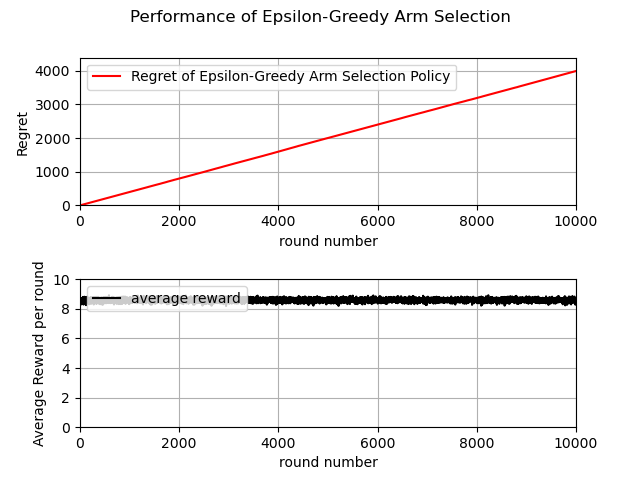
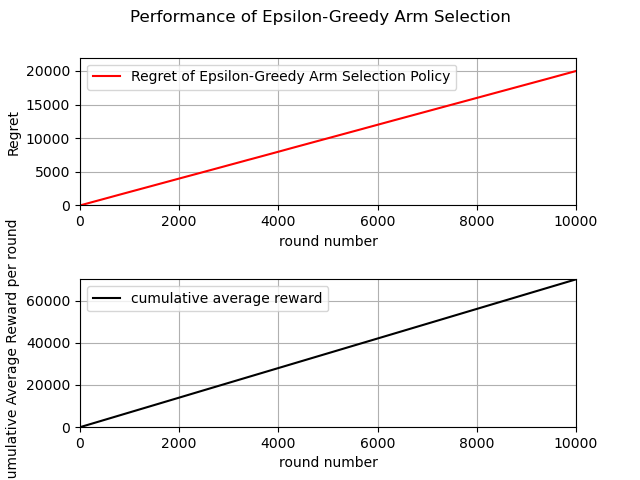
up

diff --git a/Ass2/MAB_adaptive_greedy_arm_selection.py b/Ass2/MAB_adaptive_greedy_arm_selection.py
@@ -1,60 +1,42 @@
-"""
-CMSC5728 Programming Assignment #2
-Author: HUANG, Hao Yu
-Date:   10/28/2024
-"""
 import random
 import numpy as np
-import math
 import matplotlib.pyplot as plt
 
-
 def cal_uni_expectation(upper, lower):
-    """
-    Target: calculate the expectation of the input uniform distribution
-    Return: return the expectation
-    """
     return (upper + lower) / 2
 
 def arm_selection_epsilon_greedy_policy(num_of_arms, epsilon, pull_counts, rewards):
-    """
-    Target: Conduct the epsilon-greedy selection algorithm to simulate the multi-arm bandit
-    Return: Return selected arm with the current algorithm
-    """
     if random.random() < epsilon:
-        select_arm = np.random.randint(num_of_arms, size=1)[0]  # Explore: randomly select an arm
+        select_arm = np.random.randint(num_of_arms)
     else:
-        select_arm = np.argmax(rewards / (pull_counts + 1e-10))  # Exploit: select the arm with the highest average reward
+        select_arm = np.argmax(rewards / (pull_counts + 1e-10))
     pull_counts[select_arm] += 1
     return select_arm
 
-if __name__ == "__main__":
-    print("=======================Epsilon-Greedy algorithm=======================")
-    # parameters
-    num_of_arms = 10                    # number of arms
-    winning_parameters = np.array([tuple([0,2]), tuple([1,3]), tuple([2,4]), tuple([3,9]), tuple([4,6]), tuple([8,10]), tuple([3,5]), tuple([4,10]), tuple([5,7]), tuple([6,8])])
-    optimal_arm = 5					    # index for the optimal arm
-    epsilon = 0.5                       # exploration rate
-    T = 10000					        # number of rounds to simulate
-    total_iteration = 200               # number of iterations to the MAB simulation
+def epsilon(t):
+    # Define epsilon as a function of time t
+    return 1.0 / (1.0 + t)
 
-    # Initialize arrays to store the number of pulls and rewards for each arm
+
+if __name__ == "__main__":
+    print(f"=======================Adaptive Epsilon-Greedy algorithm=======================")
+    num_of_arms = 10
+    winning_parameters = np.array([tuple([0,2]), tuple([1,3]), tuple([2,4]), tuple([3,9]), tuple([4,6]), tuple([8,10]), tuple([3,5]), tuple([4,10]), tuple([5,7]), tuple([6,8])])
+    optimal_arm = 5
+    T = 10000
+    total_iteration = 200
+
     pull_counts = np.zeros(num_of_arms, dtype=int)
     rewards = np.zeros(num_of_arms, dtype=float)
+    reward_round_iteration = np.zeros(T, dtype=float)
 
-    # reward in each round average by # of iteration
-    reward_round_iteration = np.zeros((T), dtype=float)
-
-    # Go through T rounds, each round we need to select an arm
     for iteration_count in range(total_iteration):
         for round in range(T):
-            # select the best arm with a specific algorithm
-            select_arm = arm_selection_epsilon_greedy_policy(num_of_arms, epsilon, pull_counts, rewards)
-            # generate reward for the selected arm
+            select_arm = arm_selection_epsilon_greedy_policy(num_of_arms, epsilon(round), pull_counts, rewards)
             reward = cal_uni_expectation(winning_parameters[select_arm][1], winning_parameters[select_arm][0])
             rewards[select_arm] += reward
             reward_round_iteration[round] += reward
-
+    
     # compute average reward for each round
     average_reward_in_each_round = np.zeros(T, dtype=float)
     for round in range(T):
@@ -77,11 +59,11 @@ if __name__ == "__main__":
           f'The average cumulative reward is: {cumulative_reward}\n',
           f'The average regret is: {(cumulative_optimal_reward - cumulative_reward)}'
           )
-    
+
     fig, axs = plt.subplots(2)   # get two figures, top is regret, bottom is average reward in each round
-    fig.suptitle('Performance of Epsilon-Greedy Arm Selection')
+    fig.suptitle('Performance of Adaptive Epsilon-Greedy Arm Selection')
     fig.subplots_adjust(hspace=0.5)
-    axs[0].plot(X, Y, color='red', label='Regret of Epsilon-Greedy Arm Selection Policy')
+    axs[0].plot(X, Y, color='red', label='Regret of Adaptive Epsilon-Greedy Arm Selection Policy')
     axs[0].set(xlabel='round number', ylabel='Regret')
     axs[0].grid(True)
     axs[0].legend(loc='upper left')
@@ -93,5 +75,5 @@ if __name__ == "__main__":
     axs[1].legend(loc='upper left')
     axs[1].set_xlim(0, T)
     axs[1].set_ylim(0, max(Y2))
-    plt.savefig("epsilon_greedy.png")
+    plt.savefig("adaptive_epsilon_greedy.png")
     plt.show()

diff --git a/Ass2/MAB_ETE_arm_selection.py b/Ass2/MAB_ETE_arm_selection.py
@@ -82,10 +82,12 @@ if __name__ == "__main__":
     cumulative_reward = 0.0
     X = np.zeros(T, dtype=int)
     Y = np.zeros(T, dtype=float)
+    Y2 = np.zeros(T, dtype=float)
     for round in range(T):
         X[round] = round
         cumulative_optimal_reward += cal_uni_expectation(winning_parameters[5][1], winning_parameters[5][0])  # Assuming the optimal arm is the 6th arm
         cumulative_reward += average_reward_in_each_round[round]
+        Y2[round] = cumulative_reward
         Y[round] = (cumulative_optimal_reward - cumulative_reward)
 
     print(f'After {T} rounds:\n',
@@ -102,11 +104,11 @@ if __name__ == "__main__":
     axs[0].legend(loc='upper left')
     axs[0].set_xlim(0,T)
     axs[0].set_ylim(0,1.1*(cumulative_optimal_reward - cumulative_reward))
-    axs[1].plot(X, average_reward_in_each_round, color = 'black', label='average reward')
-    axs[1].set(xlabel='round number', ylabel='Average Reward per round')
+    axs[1].plot(X, Y2, color = 'black', label='cumulative average reward')
+    axs[1].set(xlabel='round number', ylabel='Cumulative Average Reward per round')
     axs[1].grid(True)
     axs[1].legend(loc='upper left')
     axs[1].set_xlim(0,T)
-    axs[1].set_ylim(0,10.0)
-    plt.savefig("ETE.png")
+    axs[1].set_ylim(0,max(Y2))
+    plt.savefig(f"ETE_m{m}.png")
     plt.show()

diff --git a/Ass2/MAB_ucb_arm_selection.py b/Ass2/MAB_ucb_arm_selection.py
@@ -72,10 +72,12 @@ if __name__ == "__main__":
     cumulative_reward = 0.0
     X = np.zeros(T, dtype=int)
     Y = np.zeros(T, dtype=float)
+    Y2 = np.zeros(T, dtype=float)
     for round in range(T):
         X[round] = round
         cumulative_optimal_reward += cal_uni_expectation(winning_parameters[5][1], winning_parameters[5][0])
         cumulative_reward += average_reward_in_each_round[round]
+        Y2[round] = cumulative_reward
         Y[round] = cumulative_optimal_reward - cumulative_reward
 
     print(f'After {T} rounds:\n',
@@ -92,11 +94,11 @@ if __name__ == "__main__":
     axs[0].legend(loc='upper left')
     axs[0].set_xlim(0, T)
     axs[0].set_ylim(0, 1.1 * (cumulative_optimal_reward - cumulative_reward))
-    axs[1].plot(X, average_reward_in_each_round, color='black', label='average reward')
-    axs[1].set(xlabel='round number', ylabel='Average Reward per round')
+    axs[1].plot(X, Y2, color='black', label='cumulative average reward')
+    axs[1].set(xlabel='round number', ylabel='Cumulative Average Reward per round')
     axs[1].grid(True)
     axs[1].legend(loc='upper left')
     axs[1].set_xlim(0, T)
-    axs[1].set_ylim(0, 10.0)
+    axs[1].set_ylim(0, max(Y2))
     plt.savefig("ucb.png")
     plt.show()

diff --git a/Ass2/MAB_random_arm_selection.py b/Ass2/MAB_random_arm_selection.py
@@ -60,10 +60,12 @@ if __name__ == "__main__":
     cumulative_reward = 0.0
     X = np.zeros (T, dtype=int)
     Y = np.zeros (T, dtype=float)
+    Y2 = np.zeros(T, dtype=float)
     for round in range(T):
         X[round] = round
         cumulative_optimal_reward += max_reward
         cumulative_reward += average_reward_in_each_round[round]
+        Y2[round] = cumulative_reward
         Y[round] = (cumulative_optimal_reward - cumulative_reward)
 
     print(f'After {T} rounds:\n',\
@@ -80,11 +82,11 @@ if __name__ == "__main__":
     axs[0].legend(loc='upper left')
     axs[0].set_xlim(0,T)
     axs[0].set_ylim(0,1.1*(cumulative_optimal_reward - cumulative_reward))
-    axs[1].plot(X, average_reward_in_each_round, color = 'black', label='average reward')
-    axs[1].set(xlabel='round number', ylabel='Average Reward per round')
+    axs[1].plot(X, Y2, color = 'black', label='cumulative average reward')
+    axs[1].set(xlabel='round number', ylabel='Cumulative Average Reward per round')
     axs[1].grid(True)
     axs[1].legend(loc='upper left')
     axs[1].set_xlim(0,T)
-    axs[1].set_ylim(0,10.0)
+    axs[1].set_ylim(0, max(Y2))
     plt.savefig("random.png")
     plt.show()
